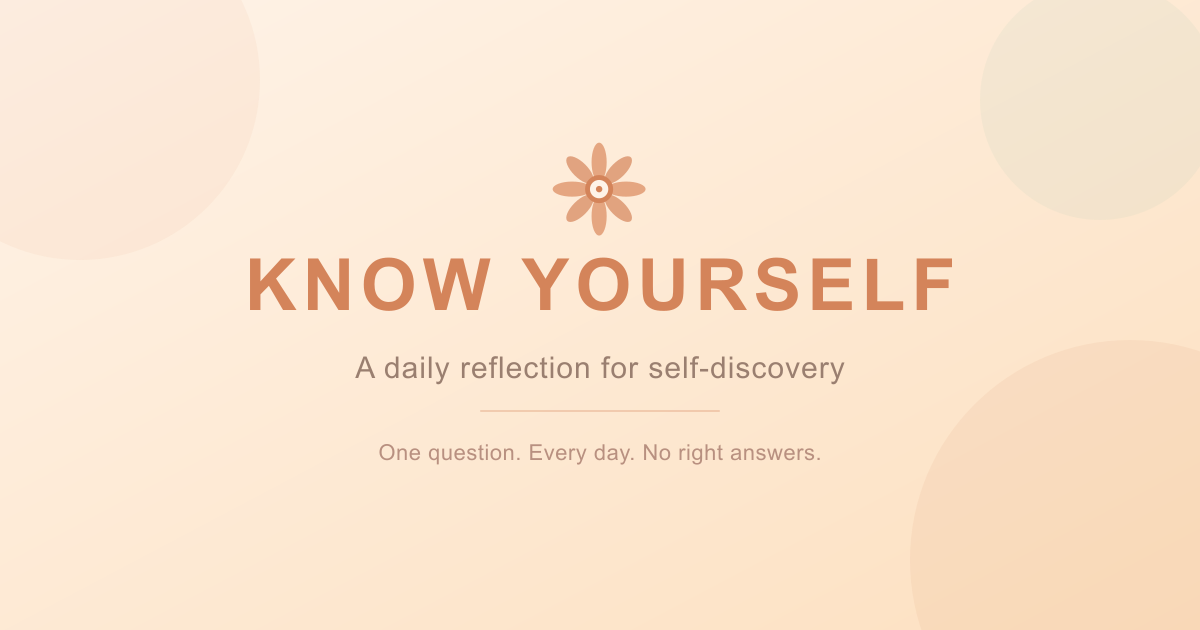
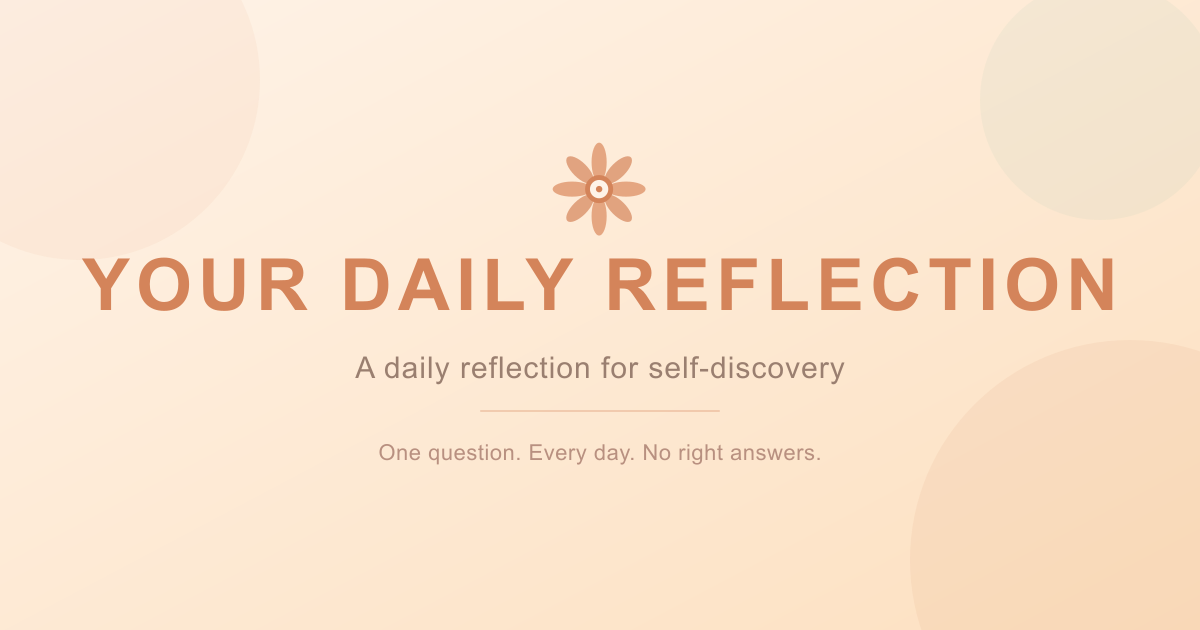
Rename app to Your Daily Reflection

Changed region(s): [[0.0617, 0.3921, 0.925, 0.5127]]

diff --git a/README.md b/README.md
@@ -1,8 +1,8 @@
-# Know Yourself
+# Your Daily Reflection
 
 A daily wellbeing app that presents one open-ended reflection question per day to support self-awareness and self-esteem — designed for people in therapy or anyone seeking deeper self-understanding.
 
-**Live:** [know-yourself.app](https://know-yourself.app)
+**Live:** [your-daily-reflection.netlify.app](https://your-daily-reflection.netlify.app)
 
 ## How it works
 